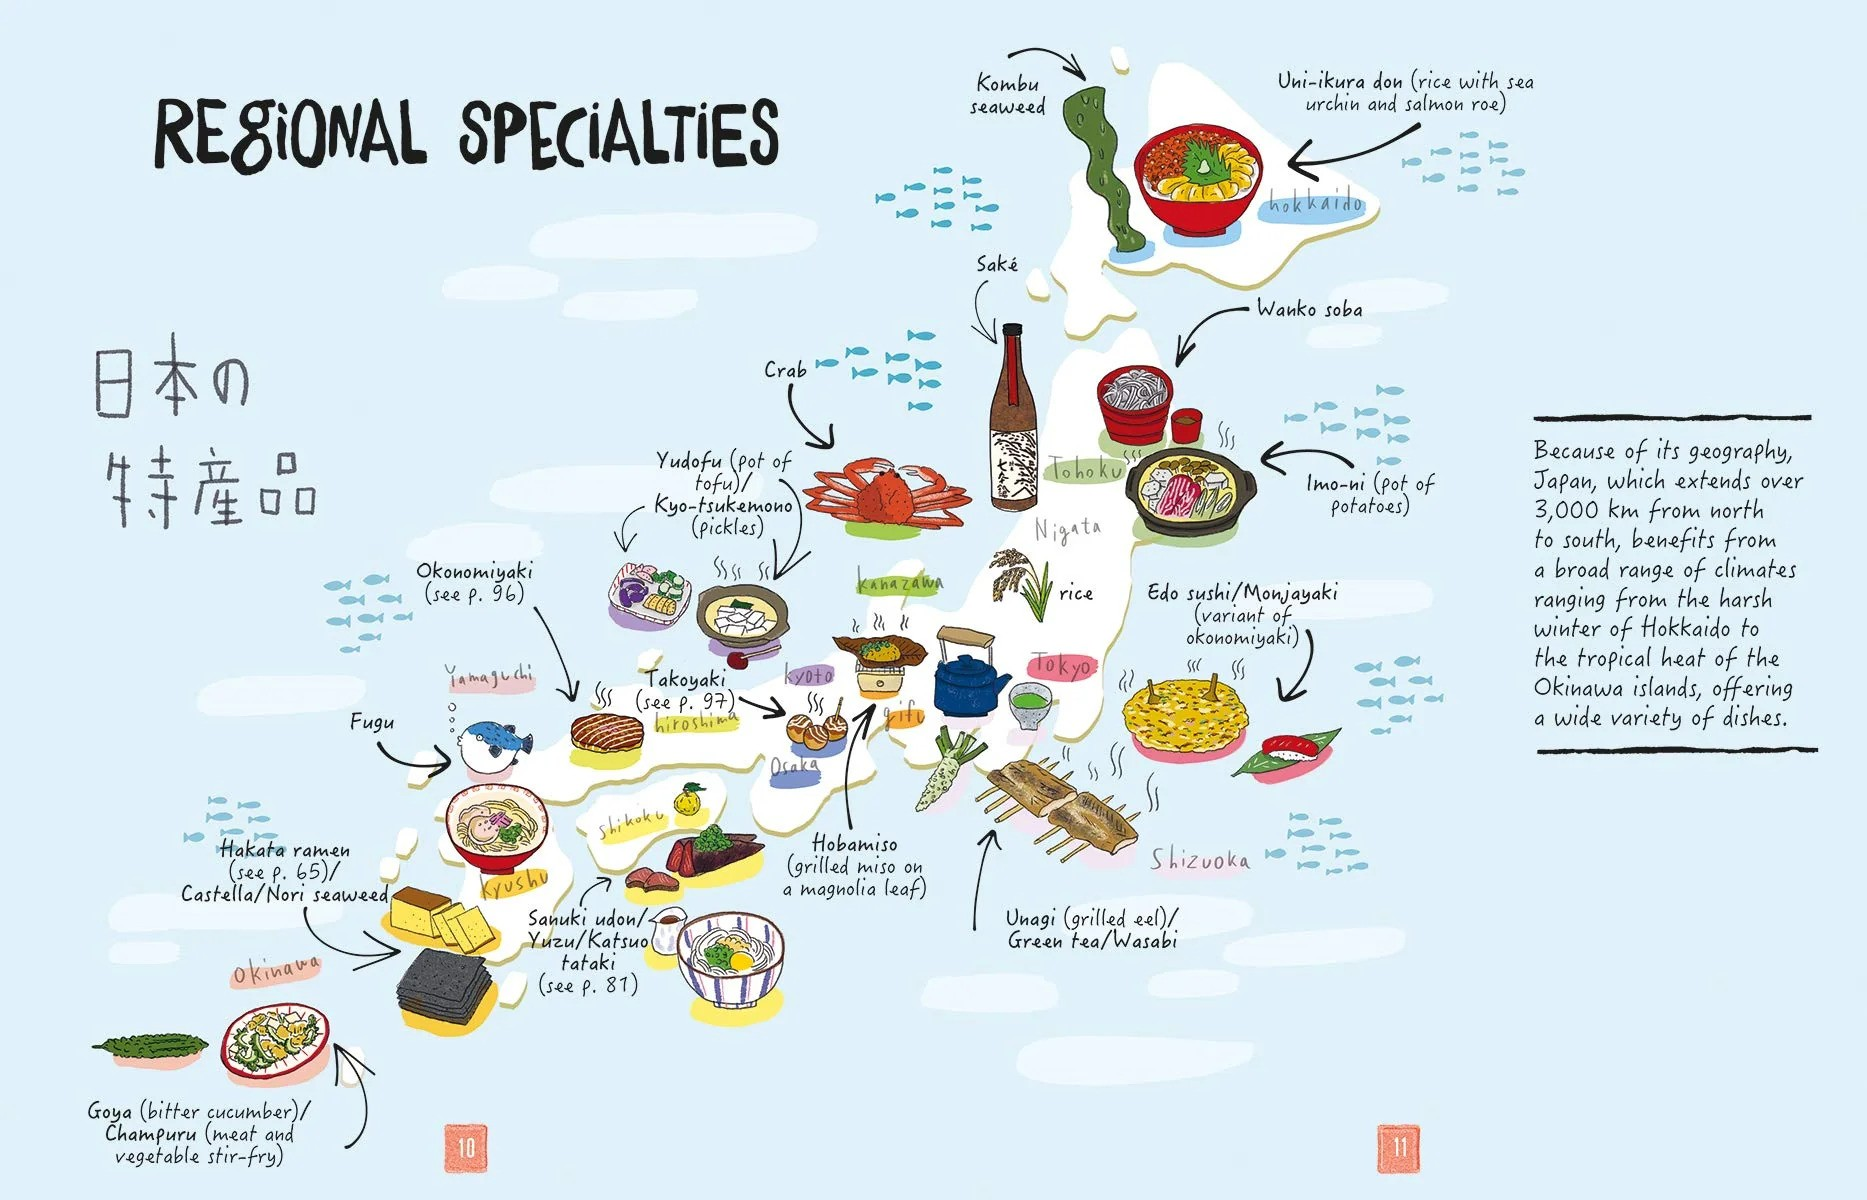
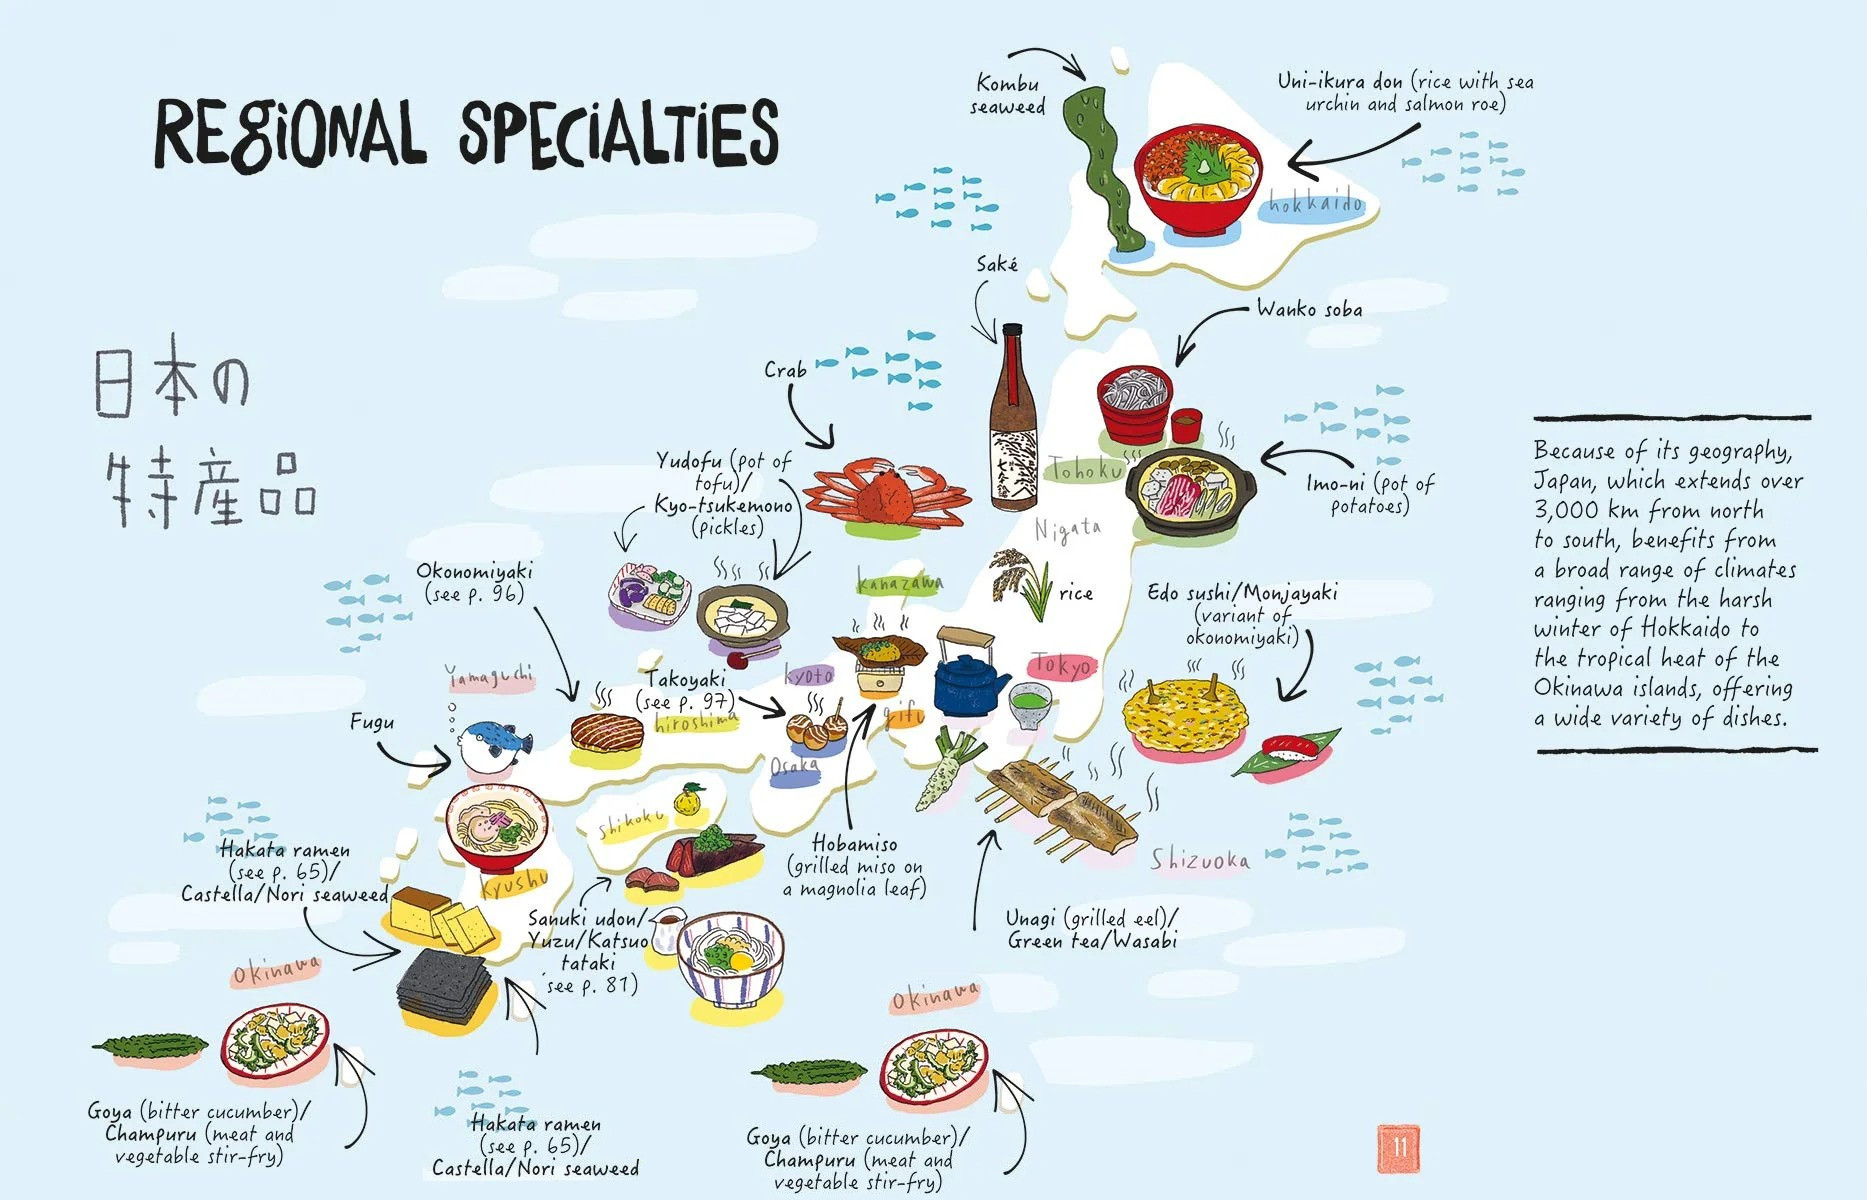
Updates to food

Changed region(s): [[0.4039, 0.8017, 0.5592, 1.0], [0.2175, 0.8942, 0.3417, 0.9867], [0.2485, 0.8017, 0.3107, 0.8633]]

diff --git a/slides.md b/slides.md
@@ -179,13 +179,10 @@ Les gestes peuvent aider, par exemple pour indiquer des plats au restaurant.
 
 - Kore, kore, kore ! (Ceci, ceci et ceci)
 
-Mais au-delà de ça, parler japonais sera certainement utile.
-
-- Nihongo de daijoubu desu. (Si vous êtes courageux)
-
-Et ils apprécieront certainement.
+Mais au-delà de ça, parler japonais sera certainement utile et ils apprécieront.
 
 - Sumimasen ! (Pour commencer)
+- Nihongo de daijoubu desu. (Si vous êtes courageux)
 
 </v-clicks>
 
@@ -218,11 +215,15 @@ Des petites astuces
 - 皆さん、リヴィエラデヴへようこそ！
 
 Après ça dépend de vous :
-- Vous voulez juste faire une conversation ?
+</v-clicks>
+
+<v-clicks>
+
+- Vous voulez juste faire une conversation?
   - Visez la grammaire et le vocabulaire
-- Vous voulez être capable de lire ?
+- Vous voulez être capable de lire?
   - Les Kanji sont indispensables
-- Vous voulez aller plus loin ?
+- Vous voulez aller plus loin?
   - Pratiquez chaque jour
   - Regardez et/ou écoutez des doramas, des chansons et des podcasts
 </v-clicks>
@@ -303,32 +304,57 @@ La nourriture a deux aspects intéressants au Japon :
 
 ---
 layout: image-right
-image: /images/foodMap1.jpg
+image: /images/foodMap.jpg
 transition: fade-out
-backgroundSize: 170%
 ---
 
 # Une grande variété
 
 À chaque région sa spécialité
 
-<v-clicks>
 
-Ōsaka
-- Takoyaki
-- Okonomiyaki (aussi a Hiroshima)
-- Kushikatsu
+<div v-click="1" v-click.hide="2">
 
-Tōkyō
+Tōkyō / Kantō
 - Monjayaki
+<img src="/photos/monjayaki.jpg" alt="image of monjayaki" class="absolute rounded shadow" height=50% width=50%/>
+</div>
 
-Sendai
-- Gyutan
+<div v-click="2" v-click.hide="3">
 
-Okinawa
-- Takoraisu
+Ōsaka / Kansai
+- Takoyaki, Okonomiyaki, Kushikatsu
+<img src="/photos/takoyaki.jpg" alt="image of takoyaki" class="absolute rounded shadow" height=50% width=50%/>
+<img src="/photos/okonomiyaki.jpg" alt="image of okonomiyaki" class="absolute rounded shadow" height=50% width=50%/>
+<img src="/photos/kushikatsu.jpg" alt="image of kushikatsu" class="absolute rounded shadow" height=50% width=50%/>
+</div>
 
-</v-clicks>
+<div v-click="3" v-click.hide="4">
+
+Sendai / Tohoku
+- Gyutan, Fraises
+<img src="/photos/gyutan.jpg" alt="image of gyutan" class="absolute rounded shadow" height=50% width=50%/>
+</div>
+
+<div v-click="4" v-click.hide="5">
+
+Hiroshima / Chugoku
+- Okonomiyaki
+</div>
+
+<div v-click="5" v-click.hide="6">
+
+Kyushu et Okinawa
+- Castera, Takoraisu, Goya
+<img src="/photos/takoraisu.jpg" alt="image of takoraisu" class="absolute rounded shadow" height=50% width=50%/>
+</div>
+
+
+<arrow v-click="[1, 2]" x1="875" y1="375" x2="800" y2="315" color="#F00" width="2" arrowSize="1" />
+<arrow v-click="[2, 3]" x1="730" y1="425" x2="680" y2="360" color="#F00" width="2" arrowSize="1" />
+<arrow v-click="[3, 4]" x1="565" y1="275" x2="610" y2="325" color="#F00" width="2" arrowSize="1" />
+<arrow v-click="[4, 5]" x1="925" y1="250" x2="815" y2="225" color="#F00" width="2" arrowSize="1" />
+<arrow v-click="[5, 6]" x1="600" y1="500" x2="540" y2="415" color="#F00" width="2" arrowSize="1" />
 
 <!--
 Le nord et le sud du Japon ont des spécialités :
